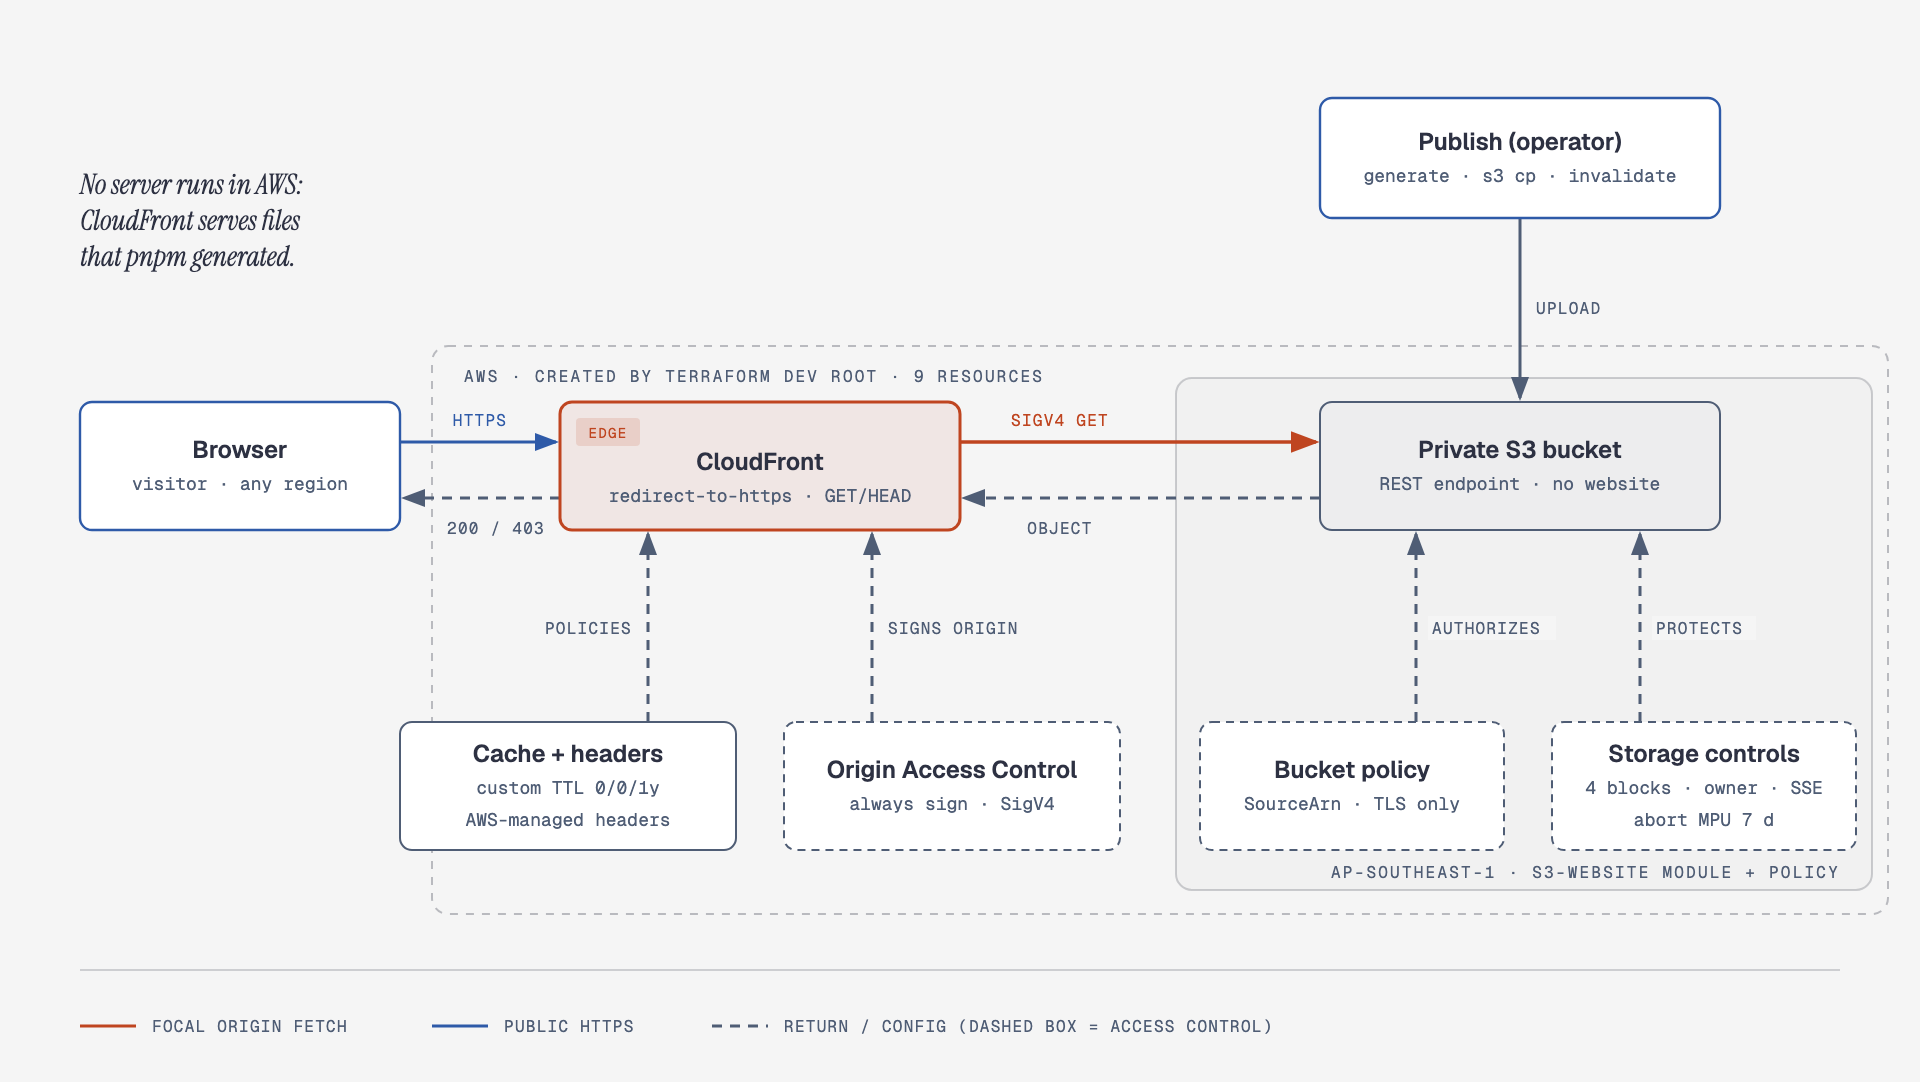
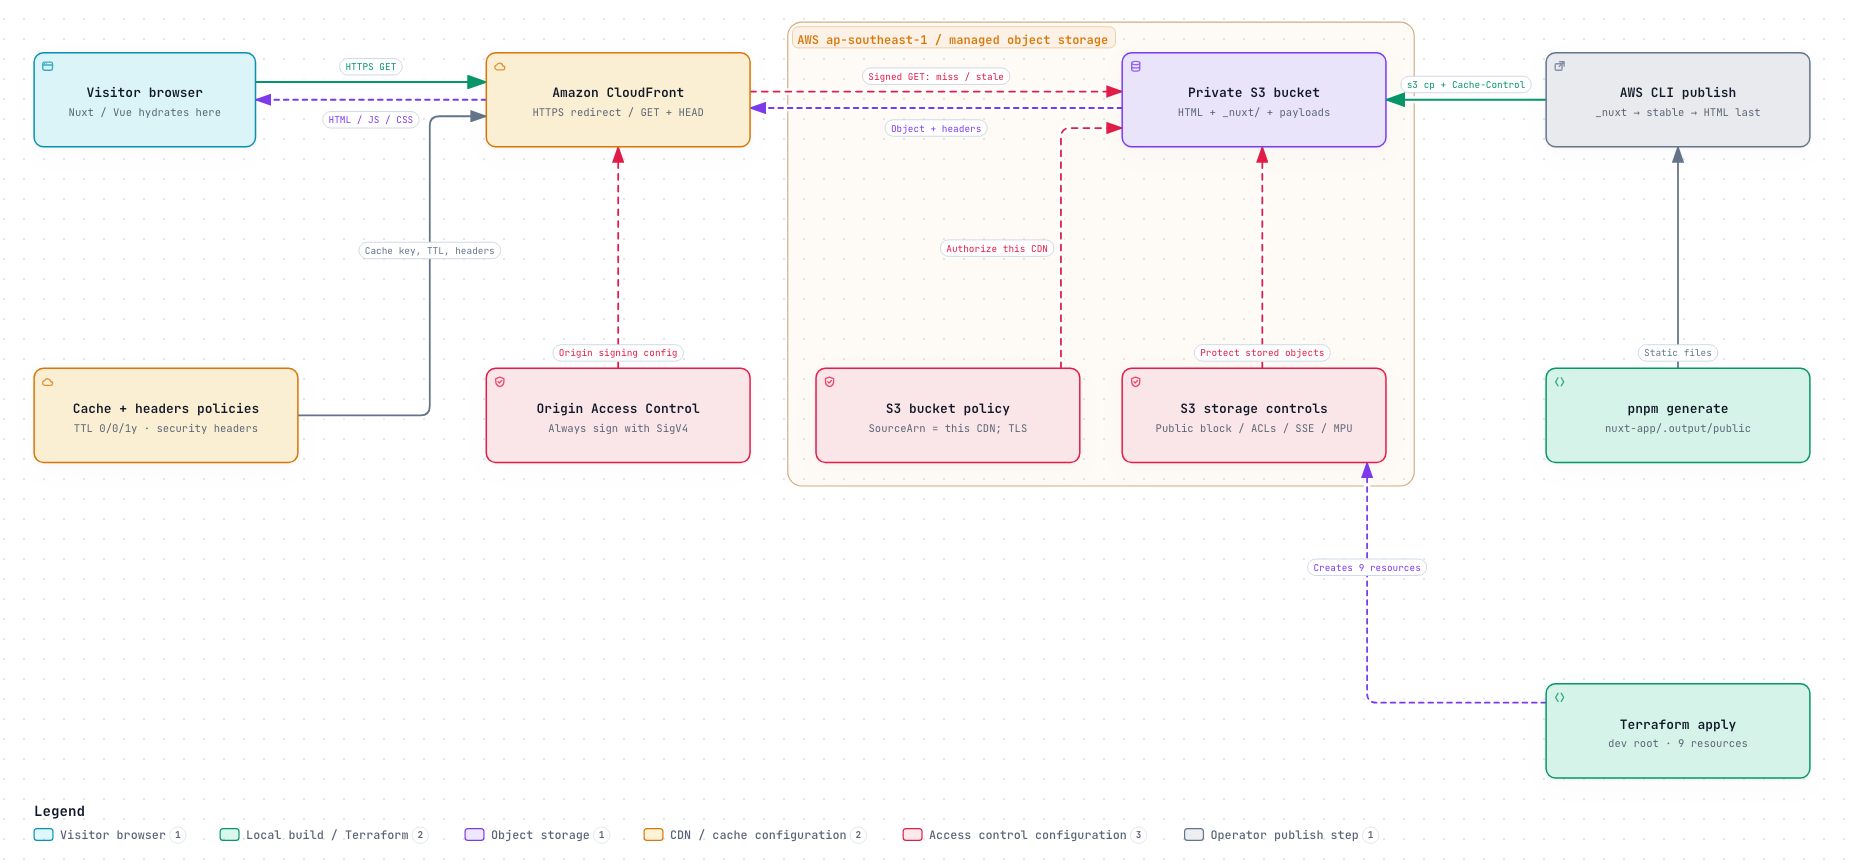
docs(lesson12): refresh architecture diagram and add its Archify source

diff --git a/lesson12/README.md b/lesson12/README.md
@@ -17,12 +17,14 @@ A static Nuxt site served over HTTPS by CloudFront from a private S3 bucket, dep
 
 **Browser → CloudFront (HTTPS) → Private S3 (via OAC)**
 
-![Nuxt architecture showing CloudFront delivery, private S3, OAC, caching, and storage controls](diagrams/architecture.png)
+![Nuxt architecture: the visitor browser fetches over HTTPS from CloudFront, which signs requests with OAC to the private S3 bucket; cache and security-headers policies, bucket policy and storage controls; pnpm generate and the AWS CLI publish the files, and Terraform apply creates 9 resources](diagrams/architecture.png)
 
 - **CloudFront:** Redirects HTTP to HTTPS, caches assets, and adds managed security headers.
 - **S3:** Private bucket; anonymous requests get `403`. Abandoned multipart uploads expire after 7 days.
 - **Caching:** HTML and stable files use `no-cache`; fingerprinted `/_nuxt/` assets are cached for a year as immutable.
 - **Routing:** Only `/` maps to `index.html`. Nested page URLs need a CloudFront rewrite.
+
+Diagram source: [`diagrams/source/architecture.json`](diagrams/source/architecture.json) (Archify).
 
 ## Results
 
